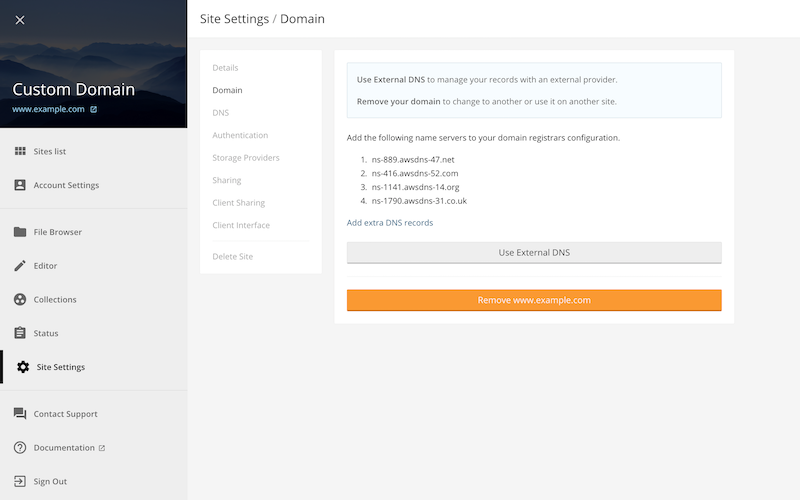
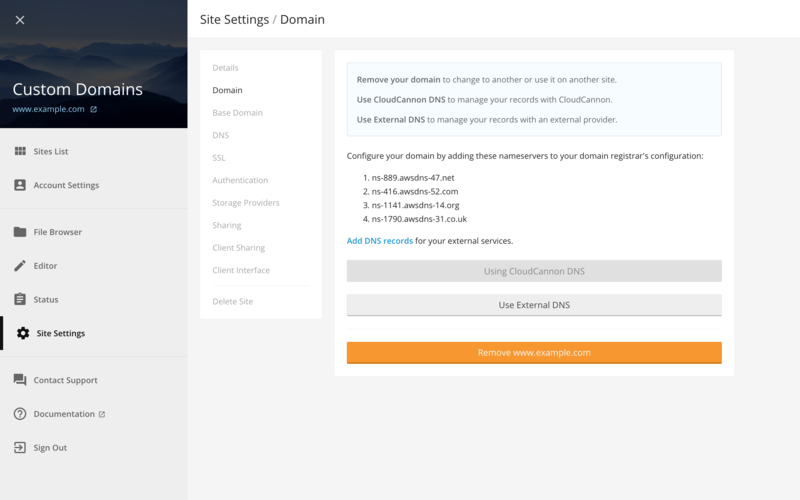
Update DNS docs for new changes in app

diff --git a/_domains/custom-domains.md b/_domains/custom-domains.md
@@ -7,15 +7,16 @@ requirements:
   hosting: CloudCannon
 ---
 
-{: .info}
+Give your live site a professional look with a unique domain name.
 
 To add a custom domain:
 
-1. Purchase a domain from a domain registrar (we recommend [iwantmyname](http://www.shareasale.com/r.cfm?B=210738&U=852853&M=25581&urllink=https://iwantmyname.com/services/developer/cloud-cannon-custom-domains))
-2. Go to the *Site Settings* / *Domain* section
-3. Enter the domain name with or without a subdomain
+1. Purchase a domain from a domain registrar (e.g.  [iwantmyname](http://www.shareasale.com/r.cfm?B=210738&U=852853&M=25581&urllink=https://iwantmyname.com/services/developer/cloud-cannon-custom-domains))
+2. Go to the *Site Settings* / *Domain* section for your site
+3. Enter your domain with or without a subdomain
+3. Click **Add Domain**
 
-![Site settings domain section with subdomain](/img/domains/empty.png){: .screenshot srcset="/img/domains/empty.png 800w, /img/domains/empty@2x.png 1600w"}
+![Site Settings / Domain section with subdomain](/img/domains/empty.png){: .screenshot srcset="/img/domains/empty.png 800w, /img/domains/empty@2x.png 1600w"}
 
 [iwantmyname](http://www.shareasale.com/r.cfm?B=210738&U=852853&M=25581&urllink=https://iwantmyname.com/services/developer/cloud-cannon-custom-domains) domains have a one click install to avoid the following steps.
 {: .info}
@@ -24,54 +25,53 @@ To add a custom domain:
 
 ### Configuring your domain
 
-All changes to a domains DNS can take up to 48 hours to propagate. This is the upper range and depends on the previous TTL set on the domain. To test your site is configured correctly use the [pingdom DNS checker](http://dnscheck.pingdom.com/).
+Changes to DNS can take up to 48 hours to propagate, depending on the previous TTL set. Test your site is configured correctly with the [pingdom DNS checker](http://dnscheck.pingdom.com/){: target="_blank"}.
 {: .warning}
 
-Once a domain has been added, configuration instructions will become available. You will have two choices:
+Configuration instructions are shown after adding a domain. There are two choices:
 
-* Use CloudCannon DNS **(recommended)**
-* Use your own DNS
+* CloudCannon DNS **(recommended)**
+* External DNS
 
-If you are unfamiliar with DNS see [Verisign's DNS explainer](http://www.verisigninc.com/en_US/domain-names/online/how-dns-works/index.xhtml).
+Verisign provides a [guide](http://www.verisign.com/en_US/domain-names/online/how-dns-works/index.xhtml){: target="_blank"} to learn how DNS works.
 {: .info}
 
 ---
 
-### Using CloudCannon DNS
+### CloudCannon DNS
 
-Go to the *Site Settings* / *Domain* section and ensure it looks like the following screenshot. Otherwise, click **Use CloudCannon DNS**.
+To configure your domain with *CloudCannon DNS*:
 
-![Site settings domain section with own DNS](/img/domains/cloudcannon-dns.png){: .screenshot srcset="/img/domains/cloudcannon-dns.png 800w, /img/domains/cloudcannon-dns@2x.png 1600w"}
+1. Ensure you are using *CloudCannon DNS* Otherwise, click **Use CloudCannon DNS**.
+2. Go to your domain registrar's *DNS Server Settings* or *Nameservers*
+3. Enter the nameservers CloudCannon provides in *Site Settings* / *Domain*
+4. Save the changes
 
-To configure your domain:
+![Site Settings / Domain section with CloudCannon DNS](/img/domains/cloudcannon-dns.png){: .screenshot srcset="/img/domains/cloudcannon-dns.png 800w, /img/domains/cloudcannon-dns@2x.png 1600w"}
 
-1. Go to your domain registrar *DNS Server Settings* or *Nameservers*
-2. Enter the nameservers provided and enter the nameservers provided
-3. (Optional) Add additional DNS records in the *Site Settings* / *DNS* section
-
-Here are some domain registrars' documentation:
-
-* [Namecheap](https://www.namecheap.com/support/knowledgebase/article.aspx/767/10/how-can-i-change-the-nameservers-for-my-domain)
-* [GoDaddy](https://www.godaddy.com/help/setting-nameservers-for-your-domain-names-664)
+Set any additional DNS records with CloudCannon [DNS](/domains/dns/).
+{: .info}
 
 ---
 
-### Using your own DNS
+### External DNS
 
-If you are using the apex domain (i.e. no subdomain) we recommend using CloudCannon DNS. This allows us to dynamically load balance your site across multiple servers.
+*CloudCannon DNS* is strongly recommended for sites on apex domains (no subdomain). *External DNS* relies on an A record mapped to a single server. This cannot be dynamically load balanced, reducing redundancy and increasing potential down time risk.
 {: .warning}
 
-Go to the *Site Settings* / *Domain* section and ensure it looks like the following screenshot. Otherwise, click **I have my own DNS**.
+To configure your domain with *External DNS*:
 
-![Site settings domain section with own DNS](/img/domains/own-dns.png){: .screenshot srcset="/img/domains/own-dns.png 800w, /img/domains/own-dns@2x.png 1600w"}
+1. Ensure you are using *External DNS* Otherwise, click **Use External DNS**.
+2. Go into the DNS settings for your domain
+3. Add the CNAME and A records provided to your DNS records
 
-1. Go into the DNS settings for your domain
-2. Add a CNAME record with the following details:
-    - **Name/Alias**: *.example.com using your domain name
-    - **Type**: CNAME
-    - **Value**: sites.cloudcannon.com
+![Site Settings / Domain section with external DNS](/img/domains/external-dns.png){: .screenshot srcset="/img/domains/external-dns.png 800w, /img/domains/external-dns@2x.png 1600w"}
 
-Here are some domain registrars' DNS documentation:
+The CNAME record maps your subdomains to CloudCannon servers, the A record maps your apex domain to a specific CloudCannon server.
+{: .info}
 
-* [Namecheap](https://www.namecheap.com/domains/freedns.aspx) (can be used with any registrar)
-* [GoDaddy](https://www.godaddy.com/help/managing-dns-for-your-domain-names-680)
+Here is the DNS documentation from a few domain registrars:
+
+* [iwantmyname](https://help.iwantmyname.com/customer/en/portal/topics/93994-dns-nameserver/articles){: target="_blank"}
+* [Namecheap](https://www.namecheap.com/domains/freedns.aspx){: target="_blank"} (can be used with any domain registrar)
+* [GoDaddy](https://www.godaddy.com/help/managing-dns-for-your-domain-names-680){: target="_blank"}

diff --git a/_domains/dns.md b/_domains/dns.md
@@ -1,0 +1,26 @@
+---
+title: DNS
+order: 4
+requirements:
+  build: Any
+  plan: Free
+  hosting: CloudCannon
+---
+
+Add external services or ownership validation through DNS records while your site is configured with [CloudCannon DNS](/domains/custom-domains/#cloudcannon-dns).
+
+To change or add a new record:
+
+1. Go to the *Site Settings* / *DNS* section
+2. Change or add details for one or more records
+3. Click **Update DNS**
+
+![Site Settings / DNS section with no additional records](/img/domains/dns.png){: .screenshot srcset="/img/domains/dns.png 800w, /img/domains/dns@2x.png 1600w"}
+
+CloudCannon supports the following record types:
+
+* A
+* CNAME
+* TXT
+* MX
+* SPF
